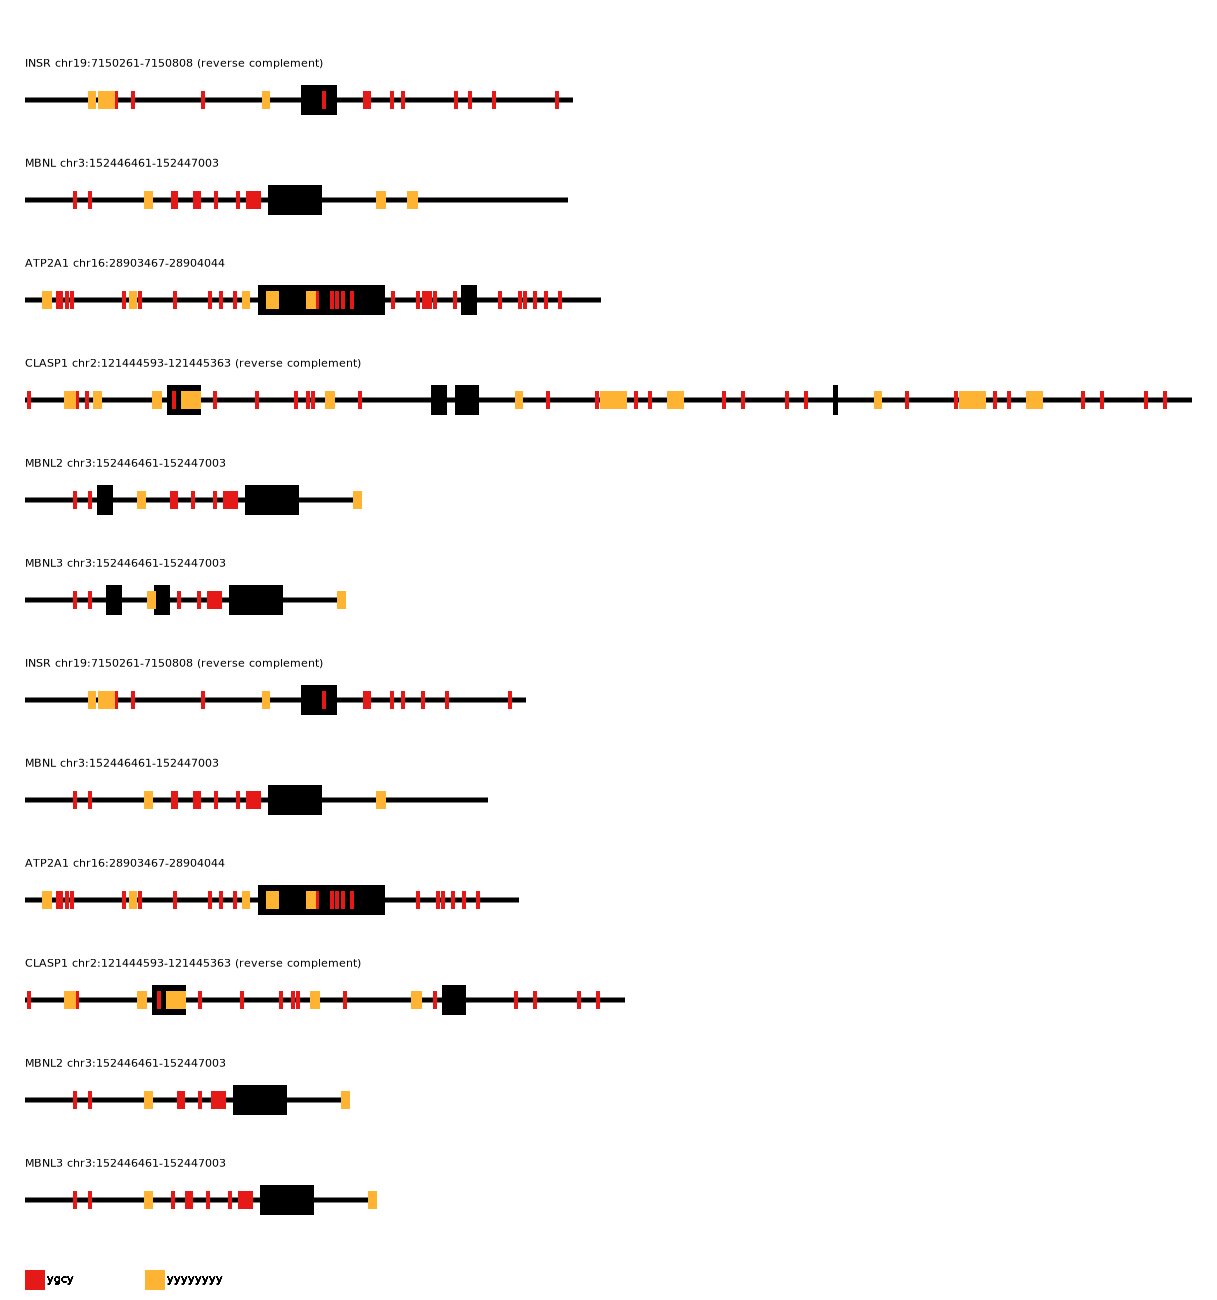
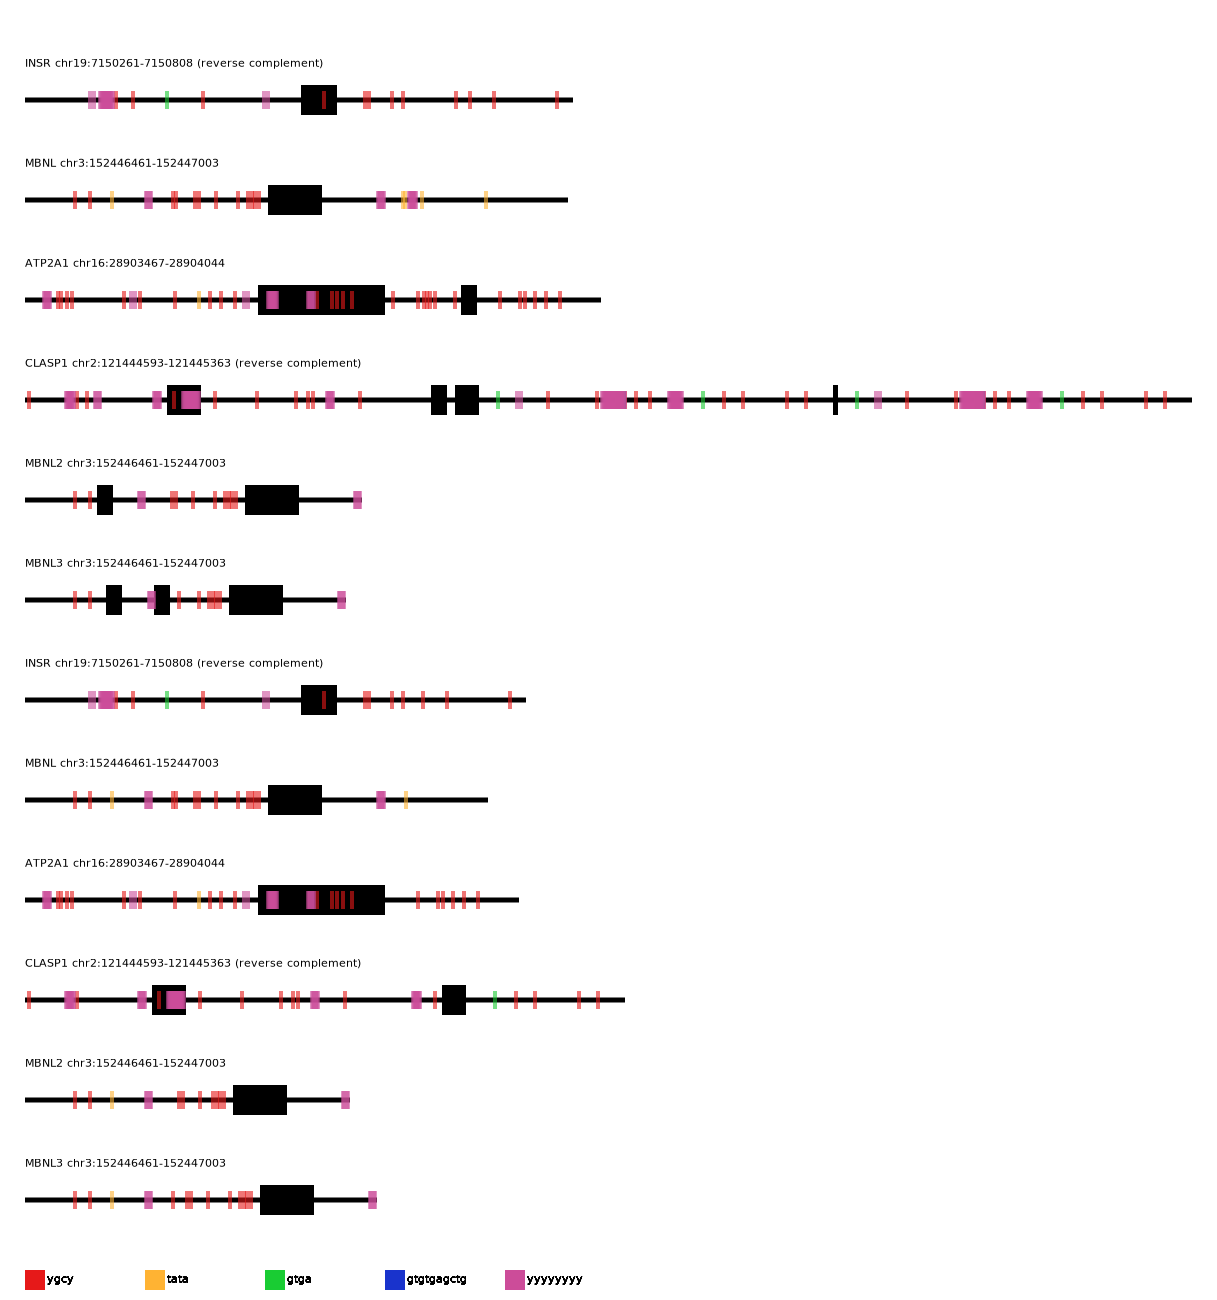
added table of nucleotides to readme

diff --git a/motif-mark-oop.py b/motif-mark-oop.py
@@ -61,8 +61,8 @@ class Motif:
         return(f'{self.sequence}')
     
     def shortenlabel(self):
-        if len(self.sequence) > 8:
-            self.label = self.sequence[:8] + "..." # shorten long motifs to label friendly format
+        if len(self.sequence) > 10:
+            self.label = self.sequence[:9] + "..." # shorten long motifs to label friendly format
         else:
             self.label = self.sequence
 
@@ -76,7 +76,7 @@ class Motif:
            if a == "y": # pyrimidine
                regstring += "[ctn]"
            elif a == "u": # uracil
-               regstring += "[tn]"
+               regstring += "[un]"
            elif a == "w": # weak
                regstring += "[atn]"
            elif a == "s": # strong
@@ -267,7 +267,7 @@ if __name__ == "__main__":
                     motifpositions.append(position)
 
                 for start,finish in motifpositions:
-                    context.set_source_rgba(motif.red, motif.green, motif.blue, 0.8) # rgba allows for alpha transparency (set to 0.8)
+                    context.set_source_rgba(motif.red, motif.green, motif.blue, 0.6) # rgba allows for alpha transparency (set to 0.8)
                     context.set_line_width(18)
                     context.move_to(start+drawing_canvas.buffer, sequence.number*drawing_canvas.constant)       
                     context.line_to(finish+drawing_canvas.buffer, sequence.number*drawing_canvas.constant)

diff --git a/readme.md b/readme.md
@@ -1,18 +1,36 @@
-## Motif Mark 
-
-This program takes a FASTA file with exons denoted in caps, and a motif text file with one motif per line (case insensitive). The output is a single .png with one image per sequence, with motif and exon positions displayed positionally on the sequence, to scale.
+## Motif Mark : create an image of motifs on a sequence
+ Written for Bi625 at BGMP. 
 
 ## Description
- 
- Written for Bi625 at BGMP. 
- 
- Aware of ambiguous nucleotides and inclusive of 'n's in sequence. e.g., 'ygcy' will match to 'tgnc'.
+ This program takes a FASTA file with exons denoted in caps, and a text file of motifs with one motif per line (case insensitive). The output is a single .png with one image per sequence, with motif and exon positions displayed positionally on the sequence, to scale.
 
-also automatically generates a fasta file with one line per sequence. 
+ - Aware of ambiguous nucleotides and inclusive of 'n's in sequence. e.g., 'ygcy' will match to 'tgnc'
+ - Automatically generates a FASTA file with one line per sequence 
 
-to do:
-fix motif colors
+### Ambiguous nucleotides supported
+
+| Description | Symbol | Base |
+| ----------- | ------ | ---- | 
+| Adenine | A |	A |
+| Cytosine | C | C | 
+| Guanine | G | G |
+| Thymine | T | T |
+| Uracil | U | U |
+| Weak | W | AT |
+| Strong | S | CG |
+| Amino | M | AC |
+| Ketone | K | GT |
+| Purine | R | AG |
+| Pyrimidine | Y | CT |
+| Not A | B | CGT |
+| Not C | D | AGT |
+| Not G | H | ACT | 
+| Not T	| V	| ACG |
+| Any one base | N | ACGT |
+
+
 ## Resources 
+
 
 see info on re https://docs.python.org/3/howto/regex.html 
 see info on using variables in re  https://stackoverflow.com/questions/6930982/how-to-use-a-variable-inside-a-regular-expression
